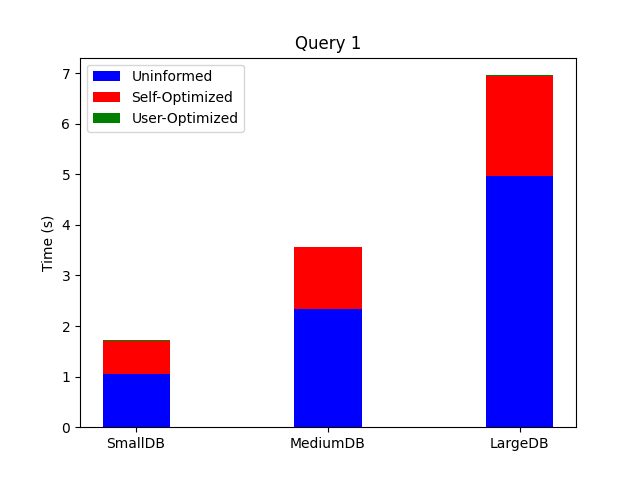
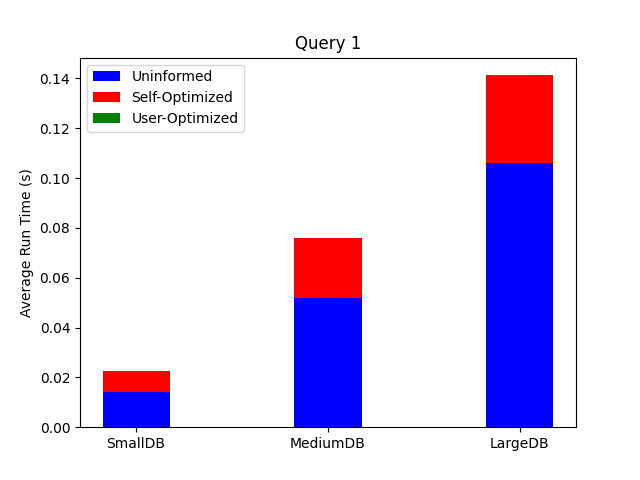
fixed a bug where i was timing total time taken rather than average time per run

diff --git a/Q1A3.py b/Q1A3.py
@@ -140,7 +140,7 @@ def main():
             for run in range(runCount):
                 rows = Query(codes[run])
             elapsed = timeit.default_timer() - start
-            scenarios[scenario][path_index] = elapsed
+            scenarios[scenario][path_index] = elapsed / runCount
             print("    Tests finished...")
 
             
@@ -194,7 +194,7 @@ def plot(uninformed, selfOptimized, userOptimized, width = 0.35):
     bar = ax.bar(labels, userOptimized, width, label="User-Optimized", bottom = userBottom, color = 'green')
 
     #add labels and the legend
-    ax.set_ylabel("Time (s)")
+    ax.set_ylabel("Average Run Time (s)")
     ax.set_title("Query 1")
     ax.legend()
 
